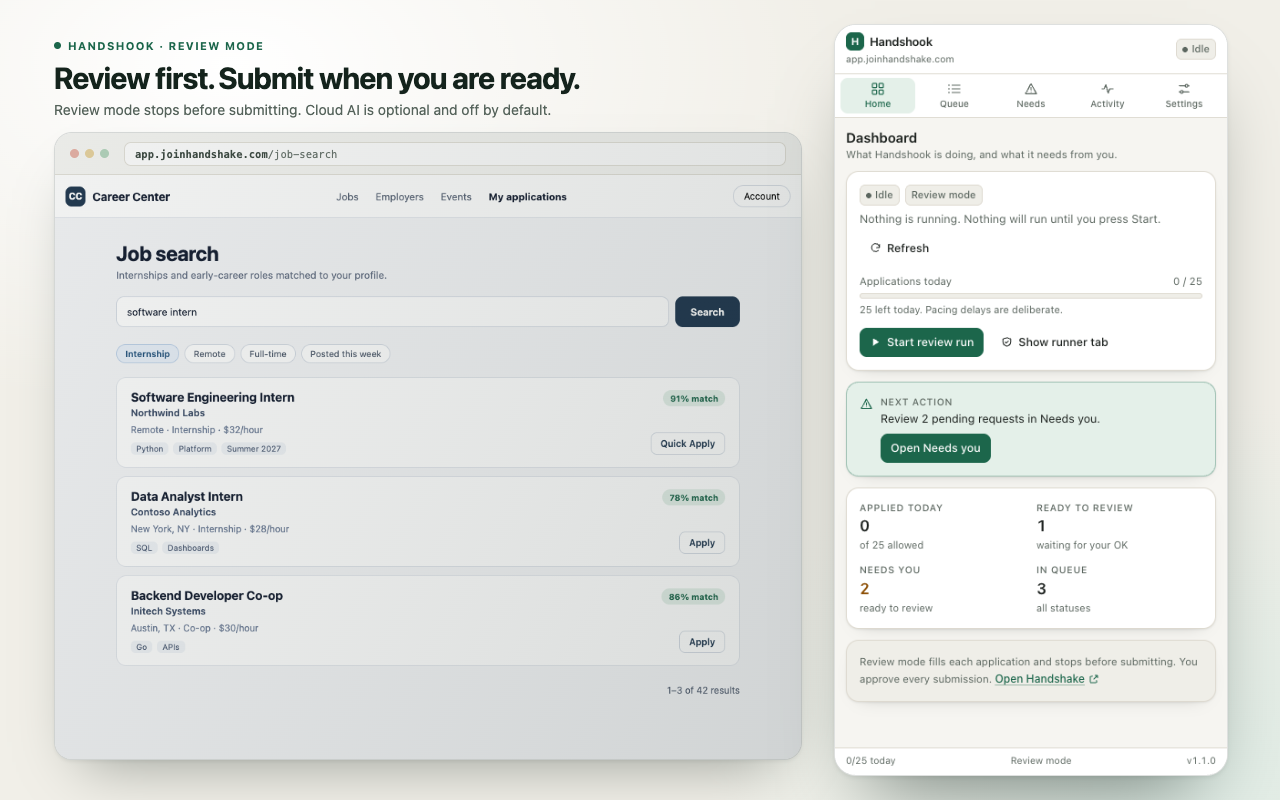
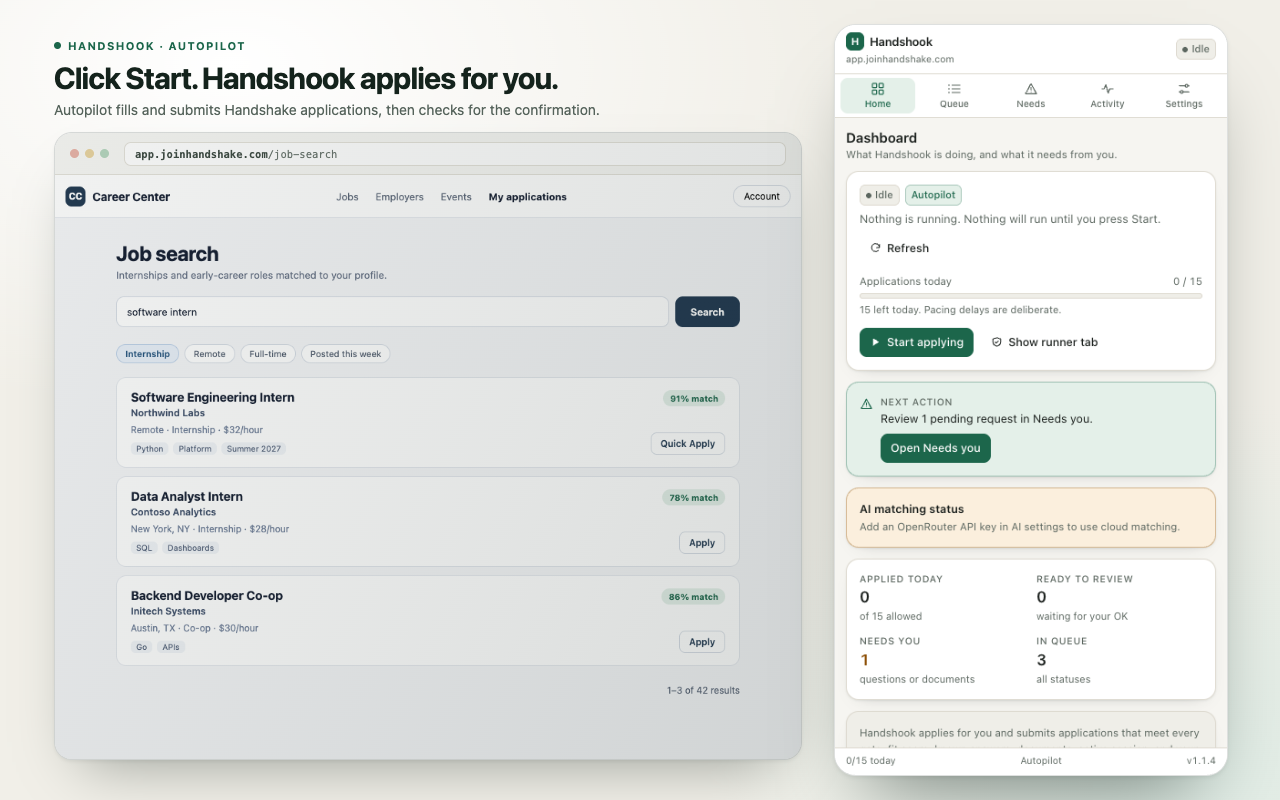
Update store assets and docs for 1.1.4 Autopilot defaults

diff --git a/extension/scripts/generate-store-assets.ts b/extension/scripts/generate-store-assets.ts
@@ -82,7 +82,7 @@ async function capturePanel(page, extensionId) {
       protocolVersion: 1,
       patch: {
         onboardingComplete: true,
-        mode: 'review',
+        mode: 'autopilot',
         ui: { theme: 'light' },
         documents: { defaultResumeId: 'demo-resume' },
         search: {
@@ -120,7 +120,7 @@ async function capturePanel(page, extensionId) {
     }));
     const queue = jobs.map((job, index) => ({
       jobId: job.id,
-      status: ['ready_for_review', 'queued', 'needs_input'][index],
+      status: ['queued', 'queued', 'needs_input'][index],
       priority: 90 - index * 10,
       attempts: index === 1 ? 0 : 1,
       addedAt: at,
@@ -143,10 +143,6 @@ async function capturePanel(page, extensionId) {
         updatedAt: at,
       });
       tx.objectStore('meta').put({
-        key: 'needs:demo-1',
-        value: { reason: 'review', questions: [], missingDocumentTypes: [] },
-      });
-      tx.objectStore('meta').put({
         key: 'needs:demo-3',
         value: {
           reason: 'questions',
@@ -161,11 +157,11 @@ async function capturePanel(page, extensionId) {
     await chrome.storage.local.set({
       'handshook.engine.v1': {
         ...response.data,
-        status: 'needs_user',
-        mode: 'review',
-        currentJobId: 'demo-1',
-        currentPhase: 'Review application',
-        message: 'The application is ready. Review it in the runner tab, then submit it there.',
+        status: 'idle',
+        mode: 'autopilot',
+        currentJobId: undefined,
+        currentPhase: undefined,
+        message: undefined,
         updatedAt: at,
       },
       'handshook.onboarding.v1': {
@@ -209,7 +205,7 @@ async function capturePanel(page, extensionId) {
   await page.getByRole('button', { name: 'Settings', exact: true }).click();
   await page.getByRole('heading', { name: 'Settings', exact: true }).waitFor();
   await page
-    .getByText(/Review before submit/i)
+    .getByText(/Run mode and safety/i)
     .first()
     .waitFor();
   // Fit the complete safety section, ending in the gap before Search. This
@@ -303,20 +299,20 @@ function dataUrl(png) {
 
 const CAPTIONS = {
   dashboard: {
-    title: 'Review first. Submit when you are ready.',
-    sub: 'Review mode stops before submitting. Cloud AI is optional and off by default.',
+    title: 'Click Start. Handshook applies for you.',
+    sub: 'Autopilot fills and submits Handshake applications, then checks for the confirmation.',
   },
   queue: {
     title: 'Every job in one queue.',
     sub: 'Matched to your saved search, ranked by fit, deduplicated locally.',
   },
   needs: {
-    title: 'Your answers. Your approval.',
-    sub: 'Unknown questions wait. Reuse only the answers you approve.',
+    title: 'Missing answers wait for you.',
+    sub: 'A required question with no saved answer goes to Needs you instead of being guessed.',
   },
   settings: {
-    title: 'Conservative limits, local data.',
-    sub: 'Daily caps, deliberate pacing, and review before submit on by default.',
+    title: 'Every switch stays yours.',
+    sub: 'Review before submit, Dry run, sensitive answers and AI can each be turned on or off.',
   },
 };
 
@@ -368,7 +364,7 @@ function compositionHtml({ panelPng, panelWidth, panelHeight, searchPng, caption
 <body>
   <div class="grain"></div>
   <div class="caption">
-    <span class="eyebrow"><span class="dot"></span>Handshook · Review mode</span>
+    <span class="eyebrow"><span class="dot"></span>Handshook · Autopilot</span>
     <h1>${caption}</h1>
     <p>${captionSub}</p>
   </div>
@@ -419,10 +415,10 @@ function promoHtml(iconDataUrl) {
   <div class="content">
     <div class="brand">
       <img class="icon" src="${iconDataUrl}" alt="">
-      <div><h1>Handshook</h1><p class="tag">Review-first job applications</p></div>
+      <div><h1>Handshook</h1><p class="tag">Automated Handshake applications</p></div>
     </div>
     <div>
-      <div class="row"><span class="pill">Review by default</span><span class="pill">Local-first</span><span class="pill">No telemetry</span></div>
+      <div class="row"><span class="pill">Autopilot by default</span><span class="pill">Local-first</span><span class="pill">No telemetry</span></div>
       <p class="fine" style="margin-top:9px">Not affiliated with Handshake.</p>
     </div>
   </div>
@@ -460,13 +456,13 @@ function marqueeHtml(iconDataUrl, panelPng) {
 <body>
   <div class="dots"></div>
   <div class="copy">
-    <div class="brand"><img class="icon" src="${iconDataUrl}" alt=""><div><h1>Handshook</h1><p class="tag">Review-first job applications</p></div></div>
-    <h2>Fill applications faster.<br>Keep the final say.</h2>
+    <div class="brand"><img class="icon" src="${iconDataUrl}" alt=""><div><h1>Handshook</h1><p class="tag">Automated Handshake applications</p></div></div>
+    <h2>Apply on Handshake automatically.<br>Stay in control.</h2>
     <div class="points">
-      <div class="point"><span class="check">✓</span>Review before submit on by default</div>
+      <div class="point"><span class="check">✓</span>Fills and submits applications for you</div>
       <div class="point"><span class="check">✓</span>Uses the session already in your browser</div>
       <div class="point"><span class="check">✓</span>Local-first data. No developer telemetry</div>
-      <div class="point"><span class="check">✓</span>Conservative daily caps and human pacing</div>
+      <div class="point"><span class="check">✓</span>Daily cap, pacing, and a Stop button</div>
     </div>
   </div>
   <div class="panel"><img src="${dataUrl(panelPng)}" alt="Handshook side panel"></div>

diff --git a/extension/docs/STORE.md b/extension/docs/STORE.md
@@ -17,14 +17,14 @@ in the private `Prakashmaheshwaran/handshook` repository, and a cleaned public s
 `Prakashmaheshwaran/handshook-extension`, default branch **master**. The private history
 contained session cookies, so the private repository must not be made public.
 
-| Destination      | URL                                                                                               | Current status                                       |
-| ---------------- | ------------------------------------------------------------------------------------------------- | ---------------------------------------------------- |
-| Homepage         | <https://github.com/Prakashmaheshwaran/handshook-extension/blob/master/extension/README.md>       | Public; recheck signed out after each snapshot push. |
-| Install guide    | <https://github.com/Prakashmaheshwaran/handshook-extension/blob/master/extension/docs/INSTALL.md> | Public.                                              |
-| Privacy policy   | <https://github.com/Prakashmaheshwaran/handshook-extension/blob/master/extension/docs/PRIVACY.md> | Public, no login required.                           |
-| Support          | <https://github.com/Prakashmaheshwaran/handshook-extension/issues>                                | Public issues.                                       |
-| GitHub Releases  | <https://github.com/Prakashmaheshwaran/handshook-extension/releases>                              | OWNER ACTION: publish a reviewed release.            |
-| Chrome Web Store | **PENDING — replace this cell with the approved listing URL**                                     | Not submitted yet; no listing URL.                   |
+| Destination      | URL                                                                                               | Current status                                                                       |
+| ---------------- | ------------------------------------------------------------------------------------------------- | ------------------------------------------------------------------------------------ |
+| Homepage         | <https://github.com/Prakashmaheshwaran/handshook-extension/blob/master/extension/README.md>       | Public; recheck signed out after each snapshot push.                                 |
+| Install guide    | <https://github.com/Prakashmaheshwaran/handshook-extension/blob/master/extension/docs/INSTALL.md> | Public.                                                                              |
+| Privacy policy   | <https://github.com/Prakashmaheshwaran/handshook-extension/blob/master/extension/docs/PRIVACY.md> | Public, no login required.                                                           |
+| Support          | <https://github.com/Prakashmaheshwaran/handshook-extension/issues>                                | Public issues.                                                                       |
+| GitHub Releases  | <https://github.com/Prakashmaheshwaran/handshook-extension/releases>                              | OWNER ACTION: publish a reviewed release.                                            |
+| Chrome Web Store | **PENDING — replace this cell with the approved listing URL**                                     | Draft item `koimmcoadjnkppajahgjfaecjgbgccei` created 2026-11-06; not yet submitted. |
 
 The owner can choose:
 
@@ -82,8 +82,7 @@ text, AI matching and AI page assist. Pause or Stop is always available from the
 dashboard. A submission already sent cannot be undone by stopping.
 
 LIMITS YOU CONTROL
-Default daily cap: 15 applications for new installs (existing caps are retained); maximum setting: 100. Pacing delays, session breaks,
-active hours, and failure pauses help you manage the run.
+Default daily cap: 15 applications for new installs (existing caps are retained); maximum setting: 100. Pacing delays, session breaks, and failure pauses help you manage the run.
 
 YOUR DATA
 No Handshook account, backend, advertising, or telemetry. Settings, answers, document

diff --git a/extension/docs/SECURITY.md b/extension/docs/SECURITY.md
@@ -46,7 +46,7 @@ must recheck the merged manifest and request/key boundaries; see
 | Malicious page spoofing extension messages | Page sends `window.postMessage`/DOM events        | Unauthorized actions             | Never trust page messages; use `chrome.runtime` sender checks; no DOM event bus for commands       |
 | Other extension/UI spoofing                | Fake side panel/content                           | Phishing for answers             | Branding + local-only UI; no passwords requested; no external auth                                 |
 | Secret leakage in logs/exports             | Debug logs, diagnostics                           | API key/PII exposure             | Redaction at source; export schema whitelist; tests with sentinels                                 |
-| Over-application / account block           | Fast loop, parallel tabs                          | Account restriction              | Conservative caps, jitter, active hours, one tab, stop signals                                     |
+| Over-application / account block           | Fast loop, parallel tabs                          | Account restriction              | Conservative caps, jitter, one tab, stop signals                                                   |
 | Store policy violation                     | Misleading listing, overbroad permissions         | Removal                          | Minimal permissions, transparent copy, own branding                                                |
 | Dependency compromise                      | npm supply chain                                  | Code execution                   | Minimal deps, lockfile, audit, no postinstall scripts from unknown packages                        |
 | Local device compromise                    | Malware/other user                                | Data read                        | OS disk encryption; state is not encrypted at rest (documented)                                    |

diff --git a/extension/docs/FAQ.md b/extension/docs/FAQ.md
@@ -84,7 +84,7 @@ On the default path, a specific job waits for you for one of two reasons: a **re
 question has no saved answer**, or a **required document has no entered ID**. Both appear
 in **Needs you** with the exact question or document type; supply it and retry. Handshook
 never invents an answer or picks a file you did not enter. The run itself can pause for
-its own controls — daily cap, pacing or a session break, active hours, an expired session,
+its own controls — daily cap, pacing or a session break, an expired session,
 a page it cannot identify (`UI_CHANGED`), or an uncertain submission — and the dashboard
 shows why.
 
@@ -119,7 +119,7 @@ defaults once; an explicit **Dry run** is left alone, and your later changes are
 ## Why did the run stop at the daily cap or wait?
 
 The default cap is 15 applications per local day for new installs; settings allow at most 100.
-Pacing delays, session breaks, active hours, or repeated failures can also pause a run.
+Pacing delays, session breaks, or repeated failures can also pause a run.
 Check the dashboard message. Wait for the cap to reset naturally; clearing local
 history also removes duplicate-protection records and is not a way to increase limits.
 
